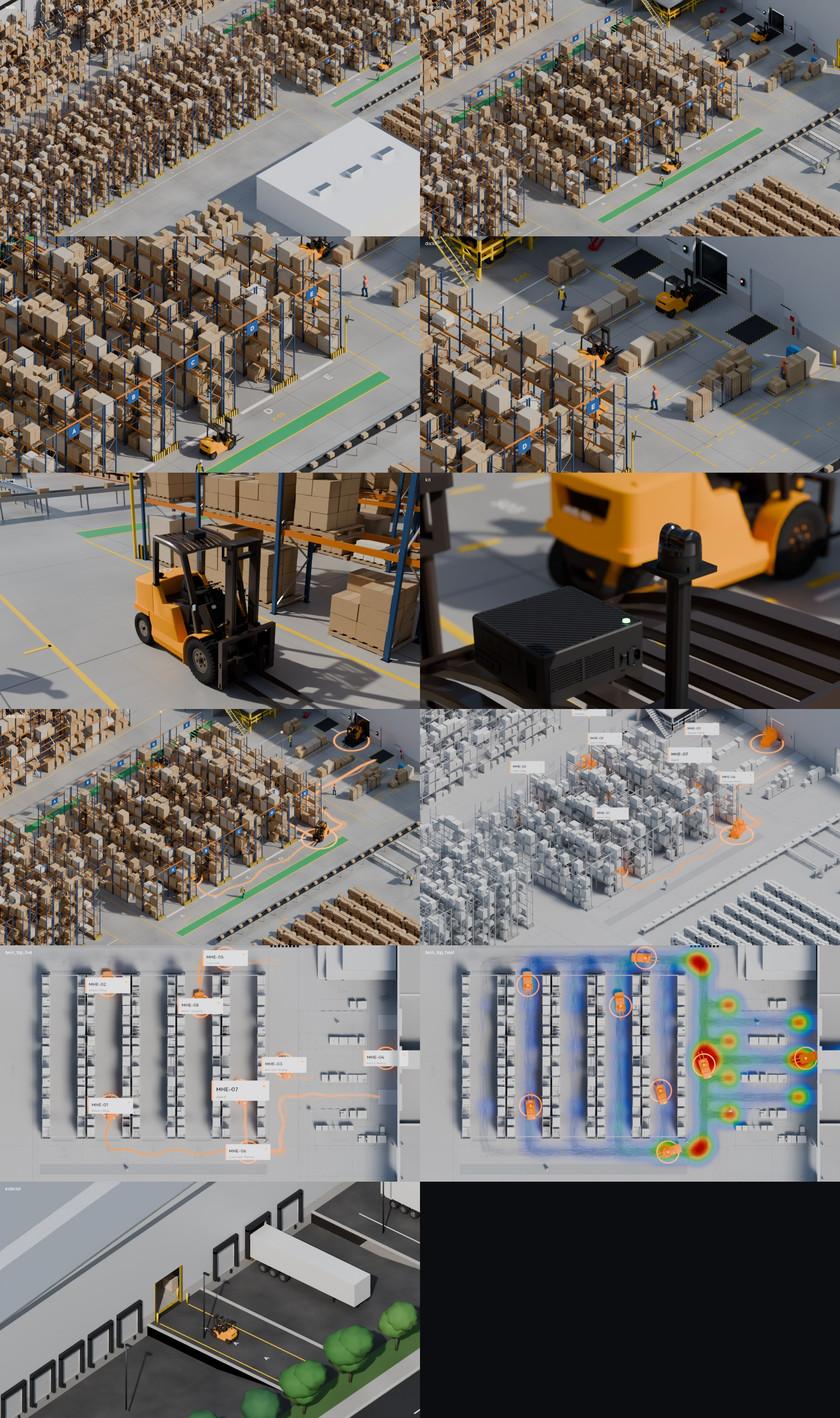
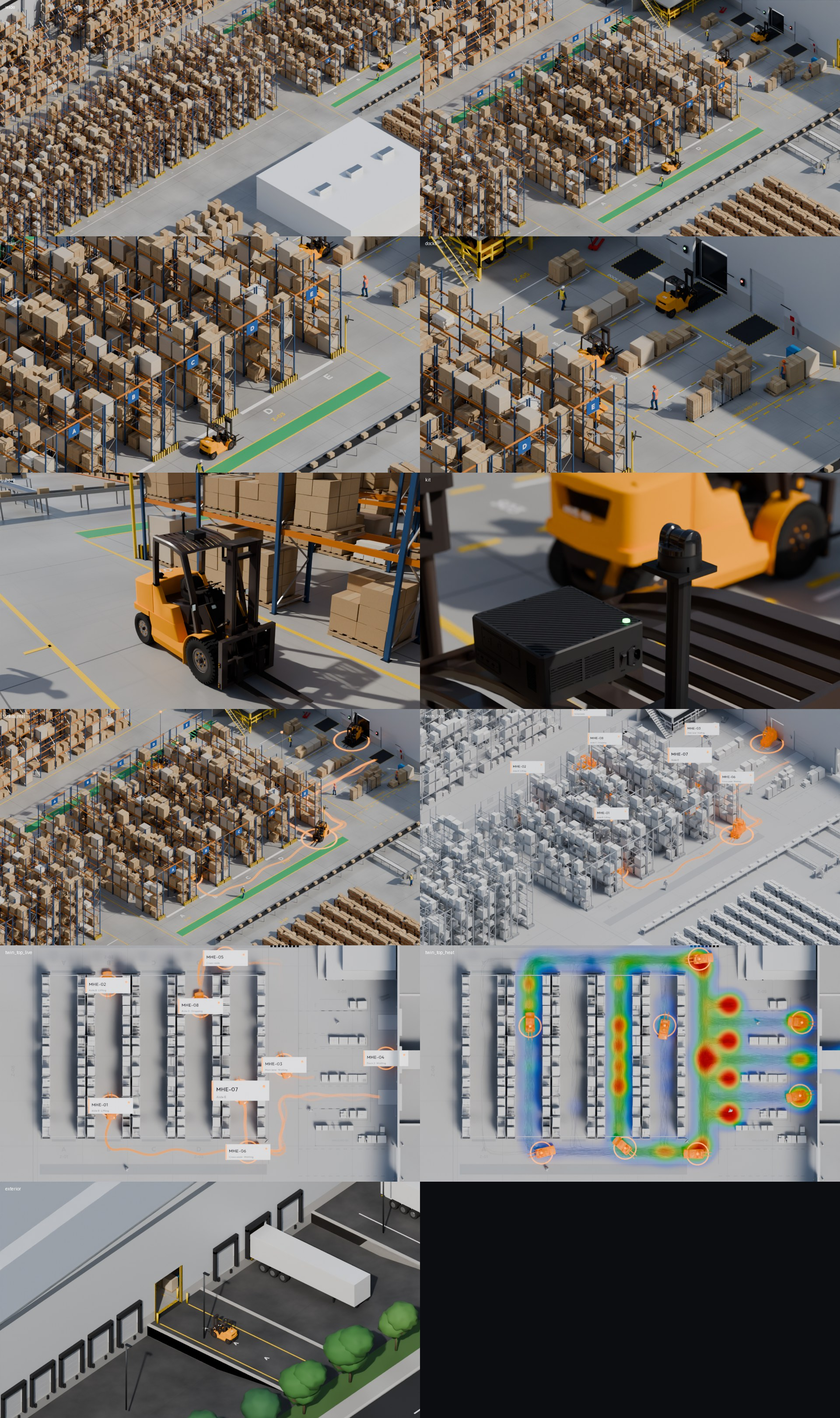
RTLS film: denser heat in the fast-moving aisles (D, B) and hot bays; dock waits weigh less
Claude-Session: https://claude.ai/code/session_017bHX7FK5WNQNoFGJvc2ZAC

Changed region(s): [[0.5938, 0.6546, 0.9062, 0.8417], [0.9375, 0.6858, 0.9688, 0.7793], [0.5625, 0.7793, 0.5938, 0.8105]]

diff --git a/scripts/rtls/paths.py b/scripts/rtls/paths.py
@@ -183,7 +183,8 @@ def drive(pts, flags, t0, v_max=V_MAX, v_turn=V_TURN):
 # ------------------------------------------------------------------------------------ the shift
 CHOKE = {("S", "L"): 0.45, ("lane", round(L.DOCKS_Y[L.TRAILER_DOCK], 2)): 0.55, ("apron", L.TRAILER_DOCK): 0.4,
          ("S", "E"): 0.35, ("N", "L"): 0.3}
-AISLE_WEIGHT = {"A": 0.5, "B": 1.4, "C": 0.8, "D": 2.1, "E": 1.1}      # slotting: fast movers live in D and B
+AISLE_WEIGHT = {"A": 0.25, "B": 2.2, "C": 0.45, "D": 3.6, "E": 0.7}     # slotting: fast movers live in D and B
+HOT_BAYS = {"D": (2, 3, 4, 5), "B": (5, 6, 7)}                          # ...and in a few bays of those aisles
 
 
 def wander(pts, r, amp=0.22, offset=0.0, taper=2.5):
@@ -222,7 +223,7 @@ def densify(pts, step=0.5):
 def simulate(seed=5, shift=SHIFT):
     nodes, edges = network()
     bays = [(a, i) for a in "ABCDE" for i in range(L.N_BAYS)]
-    bay_w = [AISLE_WEIGHT[a] * (1.6 if i in (0, 1, L.N_BAYS - 2, L.N_BAYS - 1) else 1.0) for a, i in bays]
+    bay_w = [AISLE_WEIGHT[a] * (3.0 if i in HOT_BAYS.get(a, ()) else 1.0) for a, i in bays]
     starts = {"MHE-01": ("B", 4), "MHE-02": ("D", 2), "MHE-03": ("S", "C"), "MHE-04": ("stage", 1),
               "MHE-05": ("apron", 1), "MHE-06": ("N", "D"), "MHE-07": ("lane", round(L.DOCKS_Y[0], 2)),
               "MHE-08": ("charge", 0)}
@@ -241,7 +242,7 @@ def simulate(seed=5, shift=SHIFT):
             t += 2400.0
             raw.append((t, *cur_xy, math.pi / 2, "charging"))
         while t < shift:
-            kind = r.choices(("pick", "load", "putaway"), (0.45, 0.3, 0.25))[0]
+            kind = r.choices(("pick", "load", "putaway"), (0.55, 0.2, 0.25))[0]
             if kind == "pick":
                 legs = [(r.choices(bays, bay_w)[0], "fork"), (("stage", r.randrange(4)), "drop")]
             elif kind == "load":

diff --git a/scripts/rtls/twin.py b/scripts/rtls/twin.py
@@ -306,7 +306,7 @@ def heat_grid(tracks, t_end, cell=0.2, sigma=0.9, include=("moving", "waiting", 
                 continue
             i, j = int((s[2] - y0) / cell), int((s[1] - x0) / cell)
             if 0 <= i < h and 0 <= j < w:
-                g[i, j] += R.DT * (0.45 if s[4] in ("fork", "drop") else 1.0)
+                g[i, j] += R.DT * {"moving": 1.0, "waiting": 0.45, "idle": 0.3}.get(s[4], 0.5)
     r = int(3 * sigma / cell)
     k = np.exp(-0.5 * (np.arange(-r, r + 1) * cell / sigma) ** 2)
     k /= k.sum()
